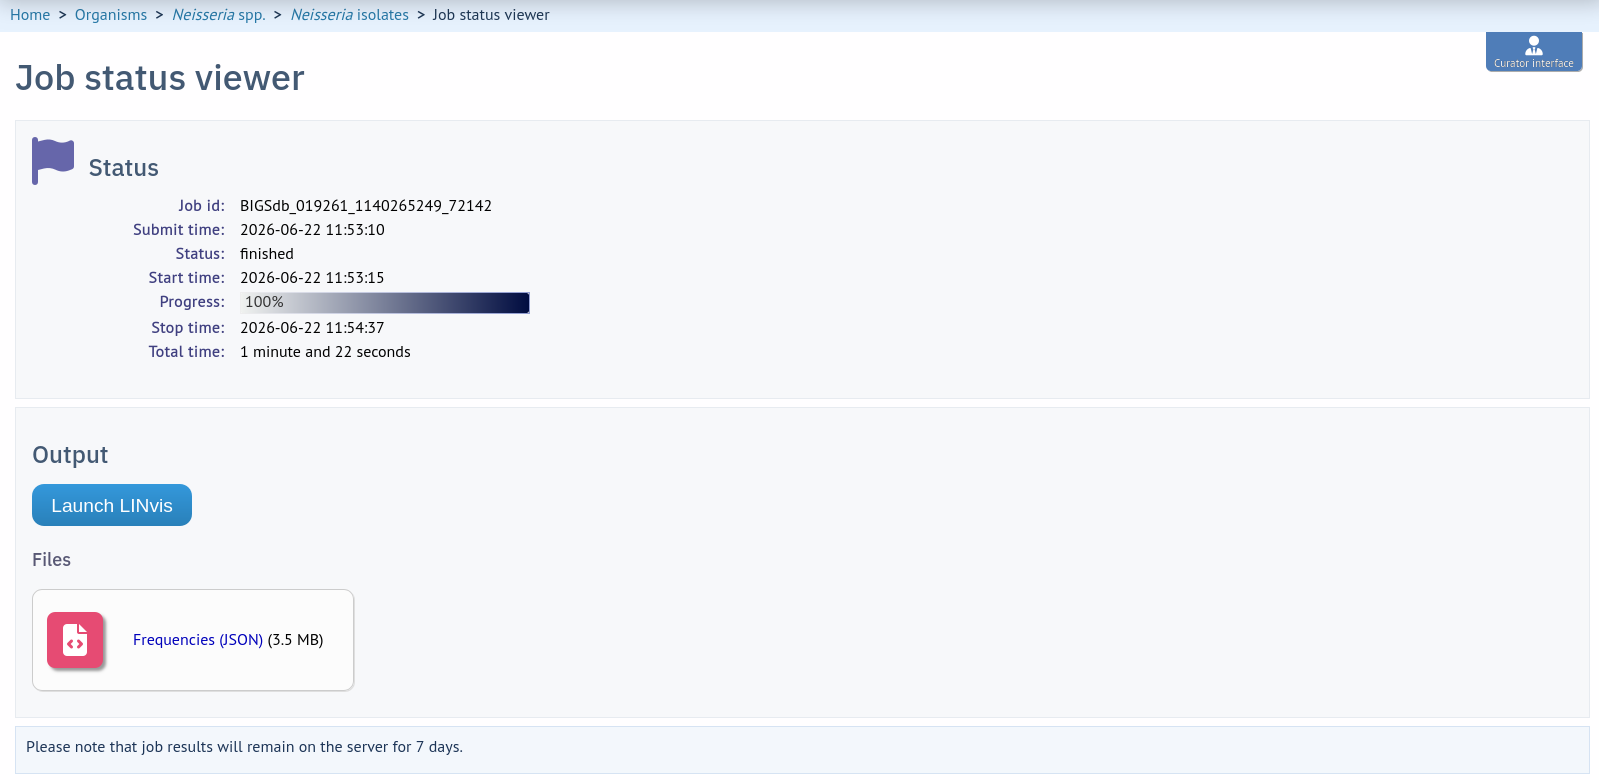
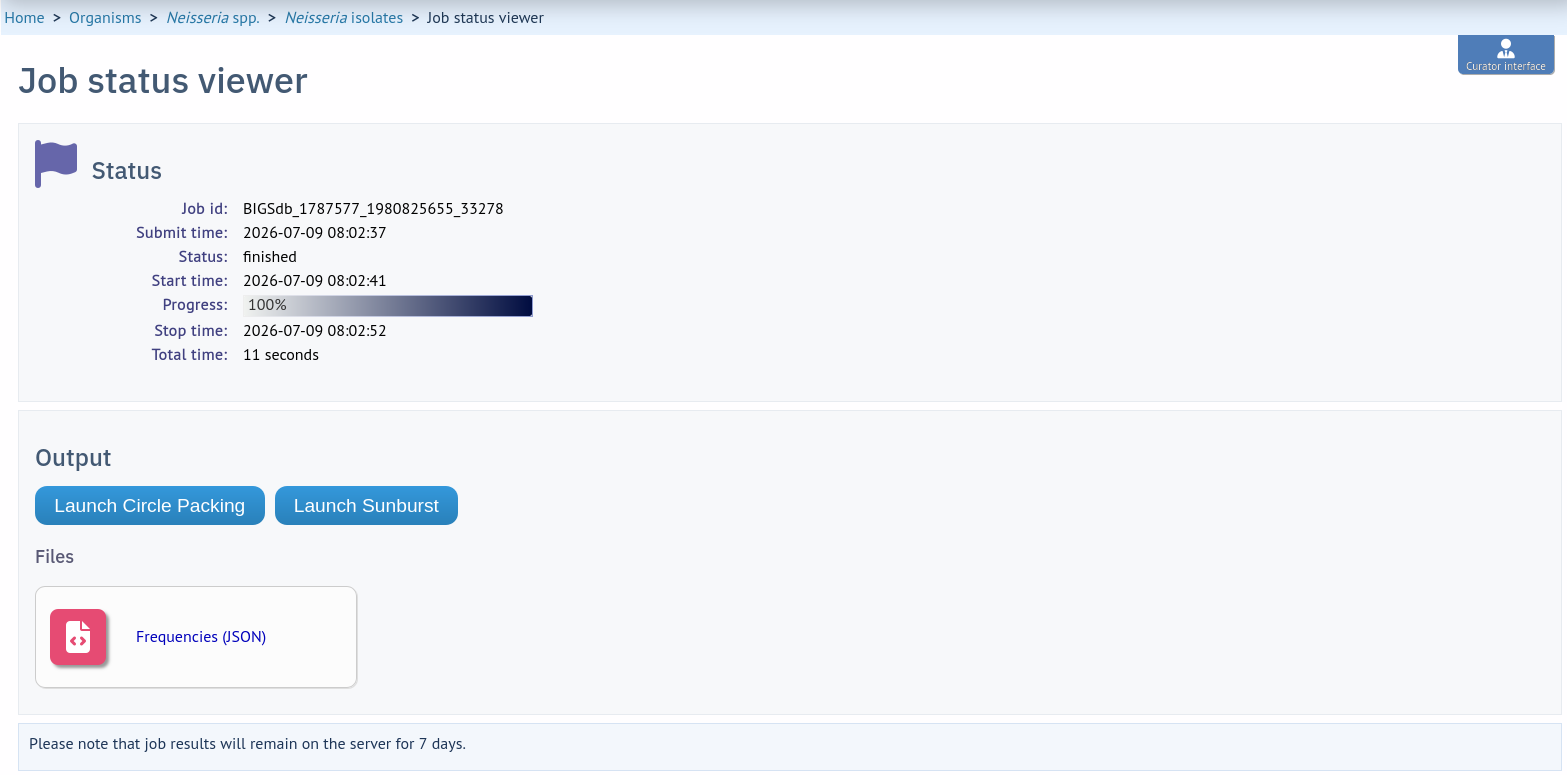
More details for LINvis including new sunburst display.

diff --git a/data_analysis/linvis.rst b/data_analysis/linvis.rst
@@ -4,10 +4,10 @@
 ******
 LINvis
 ******
-LINvis displays a dataset of LIN® code values as a hierarchical circle-packing
-visualisation. Hovering over each node will display the partial or full LIN 
-code associated with it and you can choose to set labels for any LIN code 
-threshold.
+LINvis displays a dataset of LIN code values as hierarchical visualisations
+using circle-packing or sunburst algorithms. In either visualisation, hovering
+over each node will display the partial or full LIN code associated with it and
+you can choose to set labels for any LIN code threshold.
 
 The visualisation can be exported as a SVG file for further manipulation or for
 publication.
@@ -32,12 +32,89 @@ Click 'Submit' to start the analysis.
 
 .. image:: /images/data_analysis/linvis4.png
 
-The job will be sent to the job queue. When it has finished, click the button
-marked 'Launch LINvis'. There will also be a JSON format data file that you can
-download. This can be loaded into the LINvis viewer manually if you open the 
-viewer page without passing a job parameter.
+The job will be sent to the job queue. When it has finished, you will see 
+separate buttons to launch the circle packing and sunburst visualisations. 
+Click the button for the visualisation you want. There will also be a JSON 
+format data file that you can download. This can be loaded into the LINvis 
+viewer manually if you open the viewer page without passing a job parameter.
 
 .. image:: /images/data_analysis/linvis5.png
 
-Your browser will open the LINvis viewer and display your visualisation.
-   
+**************
+Circle packing
+**************
+In this visualisation, each LIN code is displayed as a leaf node within a 
+series of containing circles representing higher-level LIN code thresholds. The
+size of the leaf nodes is proportional to the number of isolates with that LIN 
+code. It is important to note, however, that other nodes are constrained by the
+packing of descendents, so outer nodes may have inconsistent sizes even when 
+their leaf totals are the same. The size of outer nodes is more dependent on
+the number of unique inner nodes and how they branch.
+
+.. image:: /images/data_analysis/linvis6.png
+
+The visualisation can be panned (mouse drag or touch) or zoomed (mouse wheel or
+pinch touch).
+
+Hovering over any node will show a tooltip with the partial or full LIN code 
+prefix represented by the node and its frequency.
+
+.. image:: /images/data_analysis/linvis7.png
+
+The display can be resized to fit the horizontal or vertical visible space,
+or moved to the top-left position, using the controls.
+
+.. image:: /images/data_analysis/linvis8.png
+
+Labelling
+=========
+You can use automatic labelling of a selection of nodes using the 'Label depth'
+control. For example, set this to 1 to show labels for the first LIN threshold.
+The size of the labels can also be changed.
+
+.. image:: /images/data_analysis/linvis9.png
+
+You will often have specific LIN prefixes that you want to label. In this case,
+you can click the 'Show specific labels' control and enter a list. The list can
+contain any number of LIN prefixes at a mixture of thresholds. This overrides
+the label depth setting.
+
+.. image:: /images/data_analysis/linvis10.png
+
+Searching by isolate
+====================
+You can search the visualisation for the location of a particular isolate 
+either using its name of its database id. If the isolate is found, every 
+outer threshold ring containing it is highlighted in a dotted red line and the
+leaf node is highlighted with a solid red line.
+
+.. image:: /images/data_analysis/linvis11.png
+
+********
+Sunburst
+********
+Selecting the sunburst visualisation displays a series of concentric circles
+with each ring representing a different LIN threshold with each prefix value at
+that threshold sized proportionally to its frequency. Segments are coloured by
+the top-level threshold. Controls are similar to those for the circle packing,
+with the only difference being the automatic labelling using a count of labels
+with annotations showing the largest segments.
+
+.. image:: /images/data_analysis/linvis12.png
+
+Searching for isolates works in exactly the same way as for circle packing, 
+with each containing segment highlighted.
+
+.. image:: /images/data_analysis/linvis13.png
+
+Clicking any segment will redraw the hierarchy centred on that position, e.g.
+clicking on the segment arrowed...
+
+.. image:: /images/data_analysis/linvis14.png
+
+... shows the hierarchy where all records have the same top-level threshold
+value.
+
+.. image:: /images/data_analysis/linvis15.png
+
+Clicking outside the outer circle will reset the view.